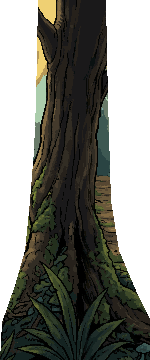
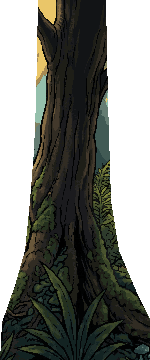
Zauberwald: linker Teil aus Sebastians Fassung ohne Weggabelung, Naht neben die Riesenpilze verlegt

diff --git a/docs/offene-punkte.md b/docs/offene-punkte.md
@@ -55,9 +55,9 @@ Jede Änderung, die nach dem Gemini-Bild von Hand oder per Skript gemacht wurde,
 | Klassenzimmer | Feuer, Blasen und Trank am Kessel nachgefärbt, Bereich 150, 100 bis 240, 240 | Skript, 5 Zusatzfarben | Trank grüner machen, Blasen klarer |
 | Klassenzimmer | Flasche 3 ist noch im Hintergrund gemalt | – | Als eigenes Sprite ausschneiden und im Hintergrund übermalen (Max nimmt sie) |
 | Klassenzimmer | Socke fehlt auf dem Hocker (388, 192) | – | Deko-Sprite Socke |
-| Zauberwald, `w1_bg_zauberwald_v01.png` | Breitbild 1066×360: rechts Sebastians erste Fassung (`zauberwald_sebastian_v1.jpeg`), links ein tieferer Waldteil (`zauberwald_sebastian_links_v2.jpeg`), zusammengesetzt als `zauberwald_breit_v1.png` | Gemini-Chat: Vorlage mit grauer Fläche ergänzen lassen, dann Boden freigeräumt; Naht um 8 Pixel ausgerichtet, 60 Pixel weich überblendet | Naht im dicken Baum prüfen (Spielpixel um x 421) |
+| Zauberwald, `w1_bg_zauberwald_v01.png` | Breitbild 1066×360: rechts Sebastians erste Fassung (`zauberwald_sebastian_v1.jpeg`), links ein tieferer Waldteil (`zauberwald_sebastian_links_v2.jpeg`), zusammengesetzt als `zauberwald_breit_v2.png` | Gemini-Chat: Vorlage mit grauer Fläche ergänzen lassen, dann Boden freigeräumt; Naht um 8 Pixel ausgerichtet, 60 Pixel weich überblendet | Naht im dicken Baum prüfen (Spielpixel um x 421) |
 | Zauberwald | Dicker Baum auf der Naht als Vordergrund-Prop `grafik/props/alter_baum.png` (340, 0, 150, 360), Umriss als Vieleck freigestellt, Baseline am unteren Rand | Skript | Umriss sauber freistellen; prüfen, ob Max dahinter natürlich verschwindet |
-| Zauberwald | Weggabelung hinter dem dicken Baum (der alte Weg zur Brücke nach oben links) mit Moos übermalt, Bereich 432, 168 bis 506, 250, Quelle 140 Pixel links daneben; Sebastian: Übergang passte nicht | Skript | Moos und Farn an der Stelle sauber zeichnen |
+| Zauberwald | Weggabelung hinter dem dicken Baum (alter Weg zur Brücke) entfernt: Sebastian hat den linken Waldteil in Gemini ohne die Abzweigung neu machen lassen (`zauberwald_sebastian_links_v4.jpeg`); Naht jetzt bei Spielpixel x 609, rechts der Riesenpilze, 60 Pixel überblendet (`zauberwald_breit_v2.png`) | Gemini-Chat | Naht neben den Riesenpilzen prüfen |
 | Zauberwald | Riesenpilze nachgefärbt, Bereich 479, 70 bis 639, 262 | Skript, 8 Zusatzfarben | Hüte bunter, besonders rosa und violett |
 | Zauberwald | Leuchtpilze nachgefärbt, Bereich 499, 200 bis 639, 262 | Skript, 4 Zusatzfarben | Leuchten und Schein |
 | Zauberwald | Lieferkarren und Ketchup nachgefärbt, Bereich 809, 175 bis 894, 250 | Skript, 4 Zusatzfarben | Rot des Karrens |
